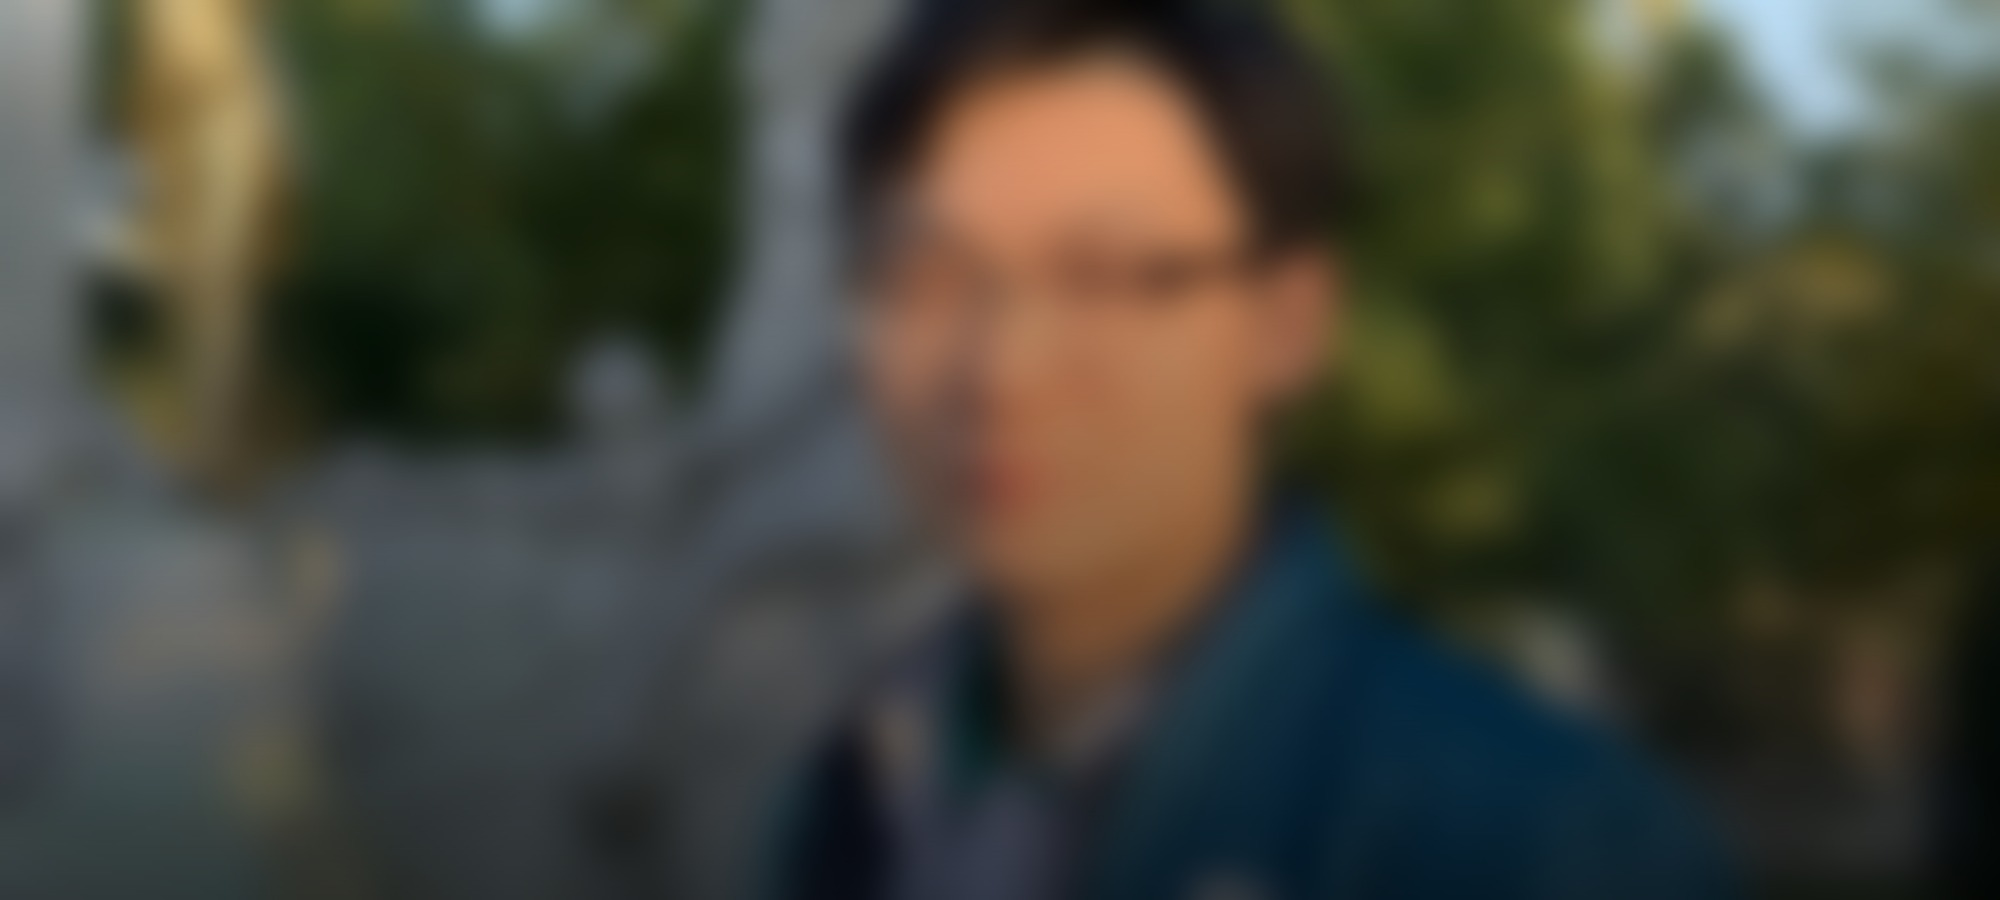
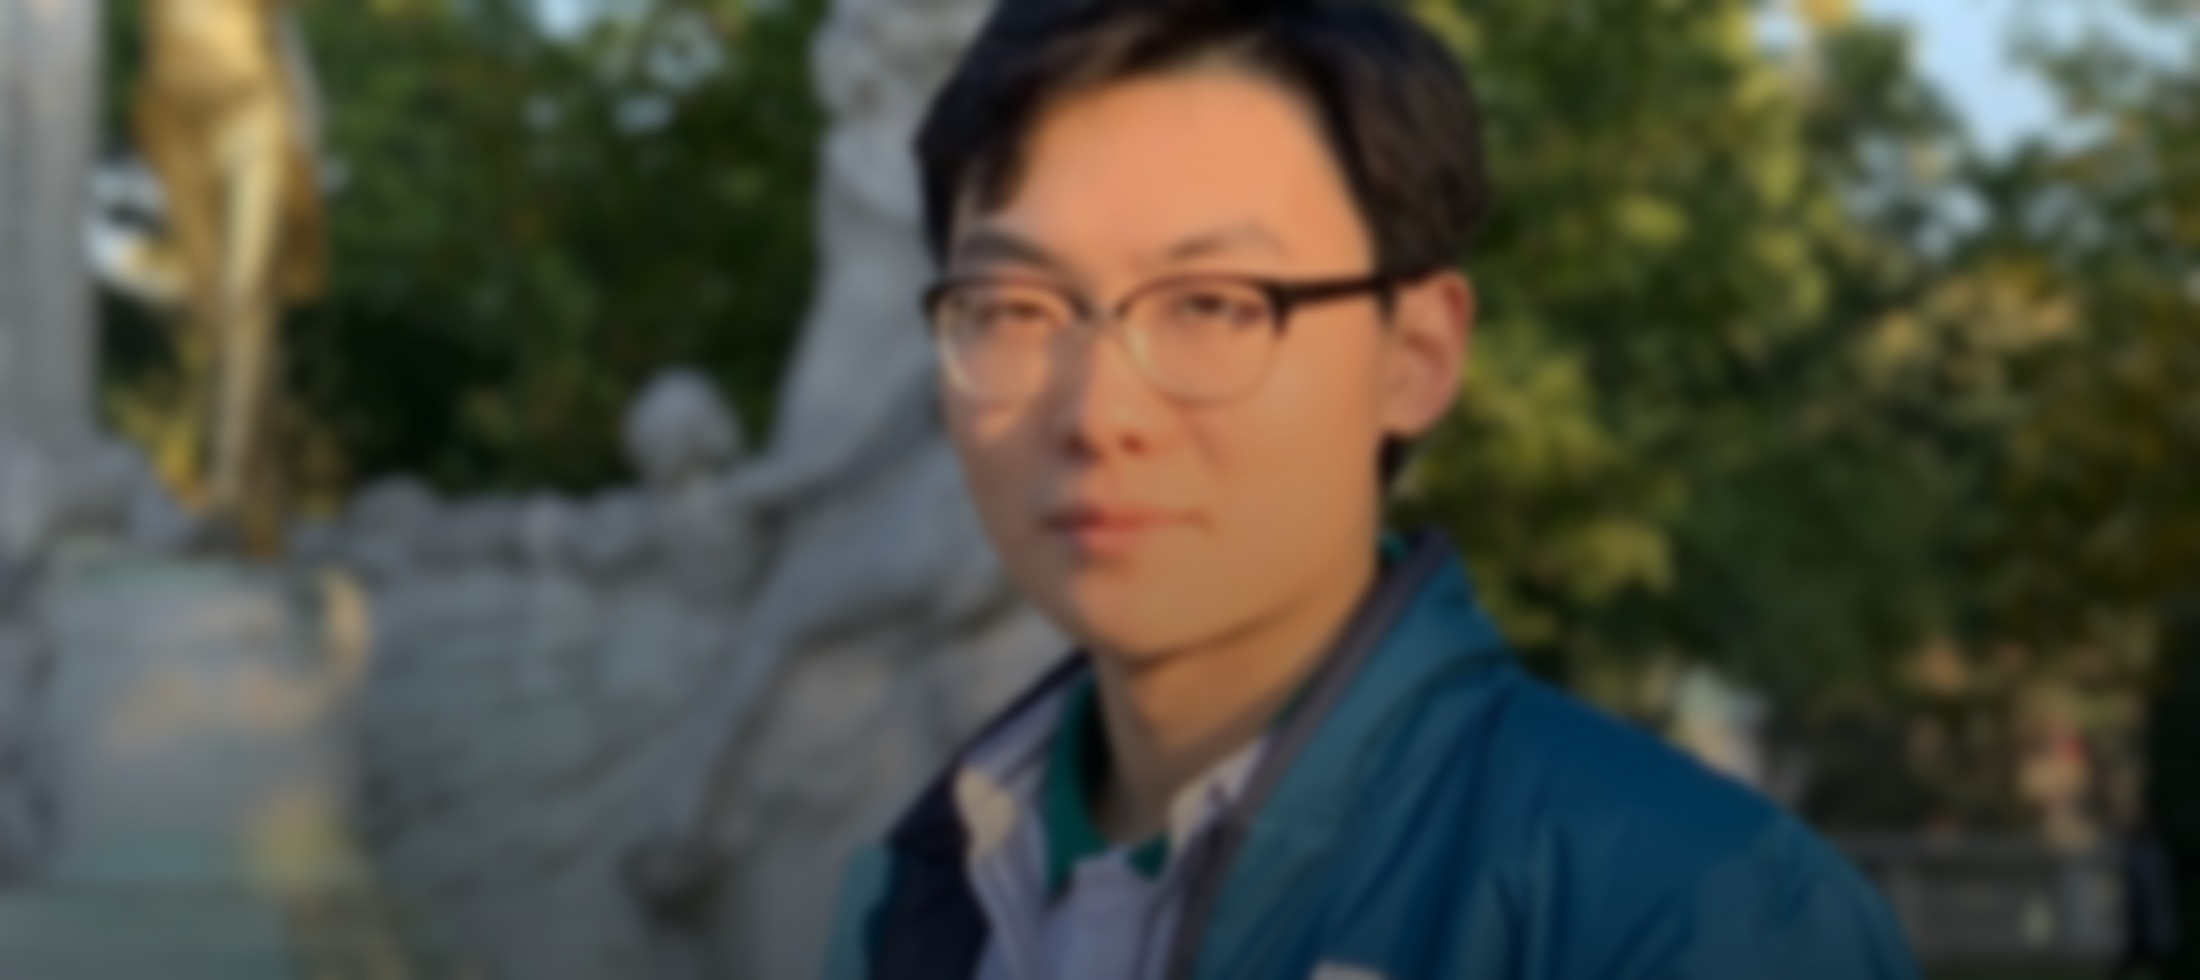
v3;

diff --git a/assets/css/main.scss b/assets/css/main.scss
@@ -17,5 +17,58 @@
 .card .card-body { padding: 1rem 1rem 1.1rem 1rem; }
 .card .card-title { margin: 0.1rem 0 0.35rem 0; font-size: 1.05rem; font-weight: 700; }
 .card .card-text { margin: 0; opacity: 0.92; }
-.badge-row { display:flex; flex-wrap:wrap; gap:0.6rem; align-items:center; margin: 0.9rem 0 0.2rem 0; }
-.badge-row img { height: 42px; border-radius: 999px; box-shadow: 0 8px 18px rgba(0,0,0,0.18); }
+
+/* --- Logo strip (uniform size & shape) --- */
+.logo-strip {
+  display: flex;
+  flex-wrap: wrap;
+  gap: 0.7rem;
+  align-items: center;
+  margin: 0.9rem 0 0.2rem 0;
+}
+.logo-pill {
+  height: 52px;
+  width: 170px;
+  padding: 10px 14px;
+  border-radius: 999px;
+  background: rgba(255,255,255,0.92);
+  border: 1px solid rgba(0,0,0,0.06);
+  box-shadow: 0 10px 22px rgba(0,0,0,0.14);
+  display: flex;
+  align-items: center;
+  justify-content: center;
+}
+.logo-pill img {
+  max-height: 30px;
+  max-width: 140px;
+  width: auto;
+  height: auto;
+  object-fit: contain;
+}
+
+/* --- Home intro split (photo visible, not blurred) --- */
+.intro-split {
+  display: grid;
+  grid-template-columns: 1.35fr 0.65fr;
+  gap: 1.2rem;
+  align-items: center;
+  margin: 0.9rem 0 0.2rem 0;
+}
+@media (max-width: 900px) {
+  .intro-split { grid-template-columns: 1fr; }
+}
+.headshot {
+  width: 240px;
+  height: 240px;
+  border-radius: 22px;
+  object-fit: cover;
+  border: 1px solid rgba(255,255,255,0.18);
+  box-shadow: 0 16px 34px rgba(0,0,0,0.25);
+}
+.headshot-wrap {
+  display:flex;
+  justify-content:flex-start;
+}
+@media (max-width: 900px) {
+  .headshot-wrap { justify-content:center; }
+}

diff --git a/index.md b/index.md
@@ -1,9 +1,10 @@
 ---
 layout: splash
 permalink: /
+nav: main
 header:
   overlay_color: "#000"
-  overlay_filter: "0.35"
+  overlay_filter: "0.25"
   overlay_image: /assets/images/cover.jpg
   actions:
     - label: "Projects"
@@ -17,14 +18,24 @@ excerpt: >
 {% include langbar.html %}
 
 ## Hi, I'm Haozhuang 👋
-I build **research-grade systems** that are also **engineering-ready**: clear protocols, strong baselines, reproducibility, and product-style demos.
 
-<div class="badge-row">
-  <img src="{{ '/assets/images/automan.png' | relative_url }}" alt="Automan Lab"/>
-  <img src="{{ '/assets/images/NTU-Singapore-1024x368' | relative_url }}" alt="NTU"/>
-  <img src="{{ '/assets/images/TUM-logo-1-e1646633307305-954x406' | relative_url }}" alt="TUM"/>
-  <img src="{{ '/assets/images/Uni_stuttgart_logo.svg' | relative_url }}" alt="Uni Stuttgart"/>
+<div class="intro-split">
+  <div>
+    I build **research-grade systems** that are also **engineering-ready**: clear protocols, strong baselines, reproducibility, and product-style demos.
+
+    <div class="logo-strip">
+      <a class="logo-pill" href="https://www.ntu.edu.sg/" target="_blank" rel="noopener"><img src="{{ '/assets/images/logos/automan.png' | relative_url }}" alt="Automan Lab"/></a>
+      <a class="logo-pill" href="https://www.ntu.edu.sg/" target="_blank" rel="noopener"><img src="{{ '/assets/images/logos/NTU-Singapore-1024x368.png' | relative_url }}" alt="NTU"/></a>
+      <a class="logo-pill" href="https://www.tum.de/" target="_blank" rel="noopener"><img src="{{ '/assets/images/logos/TUM-logo-1-e1646633307305-954x406.png' | relative_url }}" alt="TUM"/></a>
+      <a class="logo-pill" href="https://www.uni-stuttgart.de/" target="_blank" rel="noopener"><img src="{{ '/assets/images/logos/Uni_stuttgart_logo.svg.png' | relative_url }}" alt="University of Stuttgart"/></a>
+    </div>
+  </div>
+
+  <div class="headshot-wrap">
+    <img class="headshot" src="{{ '/assets/images/avatar.jpg' | relative_url }}" alt="Haozhuang Chi portrait"/>
+  </div>
 </div>
+
 
 ### Academic × Industry positioning (2026–)
 - **Academic:** rigorous experiments, publications, interpretability, failure-case analysis  

diff --git a/zh/index.md b/zh/index.md
@@ -1,9 +1,10 @@
 ---
 layout: splash
 permalink: /zh/
+nav: main_zh
 header:
   overlay_color: "#000"
-  overlay_filter: "0.35"
+  overlay_filter: "0.25"
   overlay_image: /assets/images/cover.jpg
   actions:
     - label: "项目 Projects"
@@ -17,14 +18,24 @@ excerpt: >
 {% include langbar.html %}
 
 ## 你好，我是迟浩壮 👋
-我的目标是把研究做成“可交付资产”：**严谨实验 + 可复现 + 可落地**（数据→训练→评测→Demo）。
 
-<div class="badge-row">
-  <img src="{{ '/assets/images/logo_automan.png' | relative_url }}" alt="Automan Lab"/>
-  <img src="{{ '/assets/images/logo_ntu.png' | relative_url }}" alt="NTU"/>
-  <img src="{{ '/assets/images/logo_tum.png' | relative_url }}" alt="TUM"/>
-  <img src="{{ '/assets/images/logo_ustuttgart.png' | relative_url }}" alt="Uni Stuttgart"/>
+<div class="intro-split">
+  <div>
+    我的目标是把研究做成“可交付资产”：**严谨实验 + 可复现 + 可落地**（数据→训练→评测→Demo）。
+
+    <div class="logo-strip">
+      <a class="logo-pill" href="https://www.ntu.edu.sg/" target="_blank" rel="noopener"><img src="{{ '/assets/images/logos/automan.png' | relative_url }}" alt="Automan Lab"/></a>
+      <a class="logo-pill" href="https://www.ntu.edu.sg/" target="_blank" rel="noopener"><img src="{{ '/assets/images/logos/NTU-Singapore-1024x368.png' | relative_url }}" alt="NTU"/></a>
+      <a class="logo-pill" href="https://www.tum.de/" target="_blank" rel="noopener"><img src="{{ '/assets/images/logos/TUM-logo-1-e1646633307305-954x406.png' | relative_url }}" alt="TUM"/></a>
+      <a class="logo-pill" href="https://www.uni-stuttgart.de/" target="_blank" rel="noopener"><img src="{{ '/assets/images/logos/Uni_stuttgart_logo.svg.png' | relative_url }}" alt="Uni Stuttgart"/></a>
+    </div>
+  </div>
+
+  <div class="headshot-wrap">
+    <img class="headshot" src="{{ '/assets/images/avatar.jpg' | relative_url }}" alt="迟浩壮 个人照片"/>
+  </div>
 </div>
+
 
 ### Academic × Industry 的展示逻辑（2026–）
 - **Academic：**强基线/消融/失败案例、协议清晰、可解释性  

diff --git a/_pages/about.md b/_pages/about.md
@@ -1,6 +1,7 @@
 ---
 title: "About"
 permalink: /about/
+nav: main
 ---
 
 {% include langbar.html %}
@@ -20,5 +21,5 @@ I work on **Multimodal LLMs**, **VLA**, and **World Models** for safety-critical
 - **BSc**, University of Stuttgart, Germany — 2016–2020  
 
 ### Contact
-- Email: chi1996705@outlook.com  
+- Email: chih0001@e.ntu.edu.sg  
 - LinkedIn: https://www.linkedin.com/in/haozhuang-chi

diff --git a/zh/about.md b/zh/about.md
@@ -1,6 +1,7 @@
 ---
 title: "关于"
 permalink: /zh/about/
+nav: main_zh
 ---
 
 {% include langbar.html %}
@@ -19,5 +20,5 @@ permalink: /zh/about/
 - **本科**：斯图加特大学（德国）— 2016–2020  
 
 ### 联系方式
-- Email：chi1996705@outlook.com  
+- - Email：chih0001@e.ntu.edu.sg  
 - LinkedIn：https://www.linkedin.com/in/haozhuang-chi

diff --git a/zh/cv.md b/zh/cv.md
@@ -1,10 +1,10 @@
 ---
 title: "简历"
 permalink: /zh/cv/
+nav: main_zh
 ---
 
 {% include langbar.html %}
 
 - 下载：**[Haozhuang_Chi_CV.pdf]({{ '/assets/cv/Haozhuang_Chi_CV.pdf' | relative_url }})**
 
-<iframe src="{{ '/assets/cv/Haozhuang_Chi_CV.pdf' | relative_url }}" width="100%" height="900px"></iframe>

diff --git a/_pages/cv.md b/_pages/cv.md
@@ -1,10 +1,10 @@
 ---
 title: "CV"
 permalink: /cv/
+nav: main
 ---
 
 {% include langbar.html %}
 
 - Download: **[Haozhuang_Chi_CV.pdf]({{ '/assets/cv/Haozhuang_Chi_CV.pdf' | relative_url }})**
 
-<iframe src="{{ '/assets/cv/Haozhuang_Chi_CV.pdf' | relative_url }}" width="100%" height="900px"></iframe>

diff --git a/zh/projects/vlm-dm.md b/zh/projects/vlm-dm.md
@@ -1,6 +1,7 @@
 ---
 title: "VLM-DM（IEEE IV 2025）"
 permalink: /zh/projects/vlm-dm/
+nav: main_zh
 ---
 
 {% include langbar.html %}

diff --git a/_pages/vlm-dm.md b/_pages/vlm-dm.md
@@ -1,6 +1,7 @@
 ---
 title: "VLM-DM (IEEE IV 2025)"
 permalink: /projects/vlm-dm/
+nav: main
 ---
 
 {% include langbar.html %}

diff --git a/_pages/publications.md b/_pages/publications.md
@@ -1,6 +1,7 @@
 ---
 title: "Publications"
 permalink: /publications/
+nav: main
 ---
 
 {% include langbar.html %}

diff --git a/zh/publications.md b/zh/publications.md
@@ -1,6 +1,7 @@
 ---
 title: "论文"
 permalink: /zh/publications/
+nav: main_zh
 ---
 
 {% include langbar.html %}

diff --git a/zh/projects.md b/zh/projects.md
@@ -1,6 +1,7 @@
 ---
 title: "项目"
 permalink: /zh/projects/
+nav: main_zh
 ---
 
 {% include langbar.html %}
